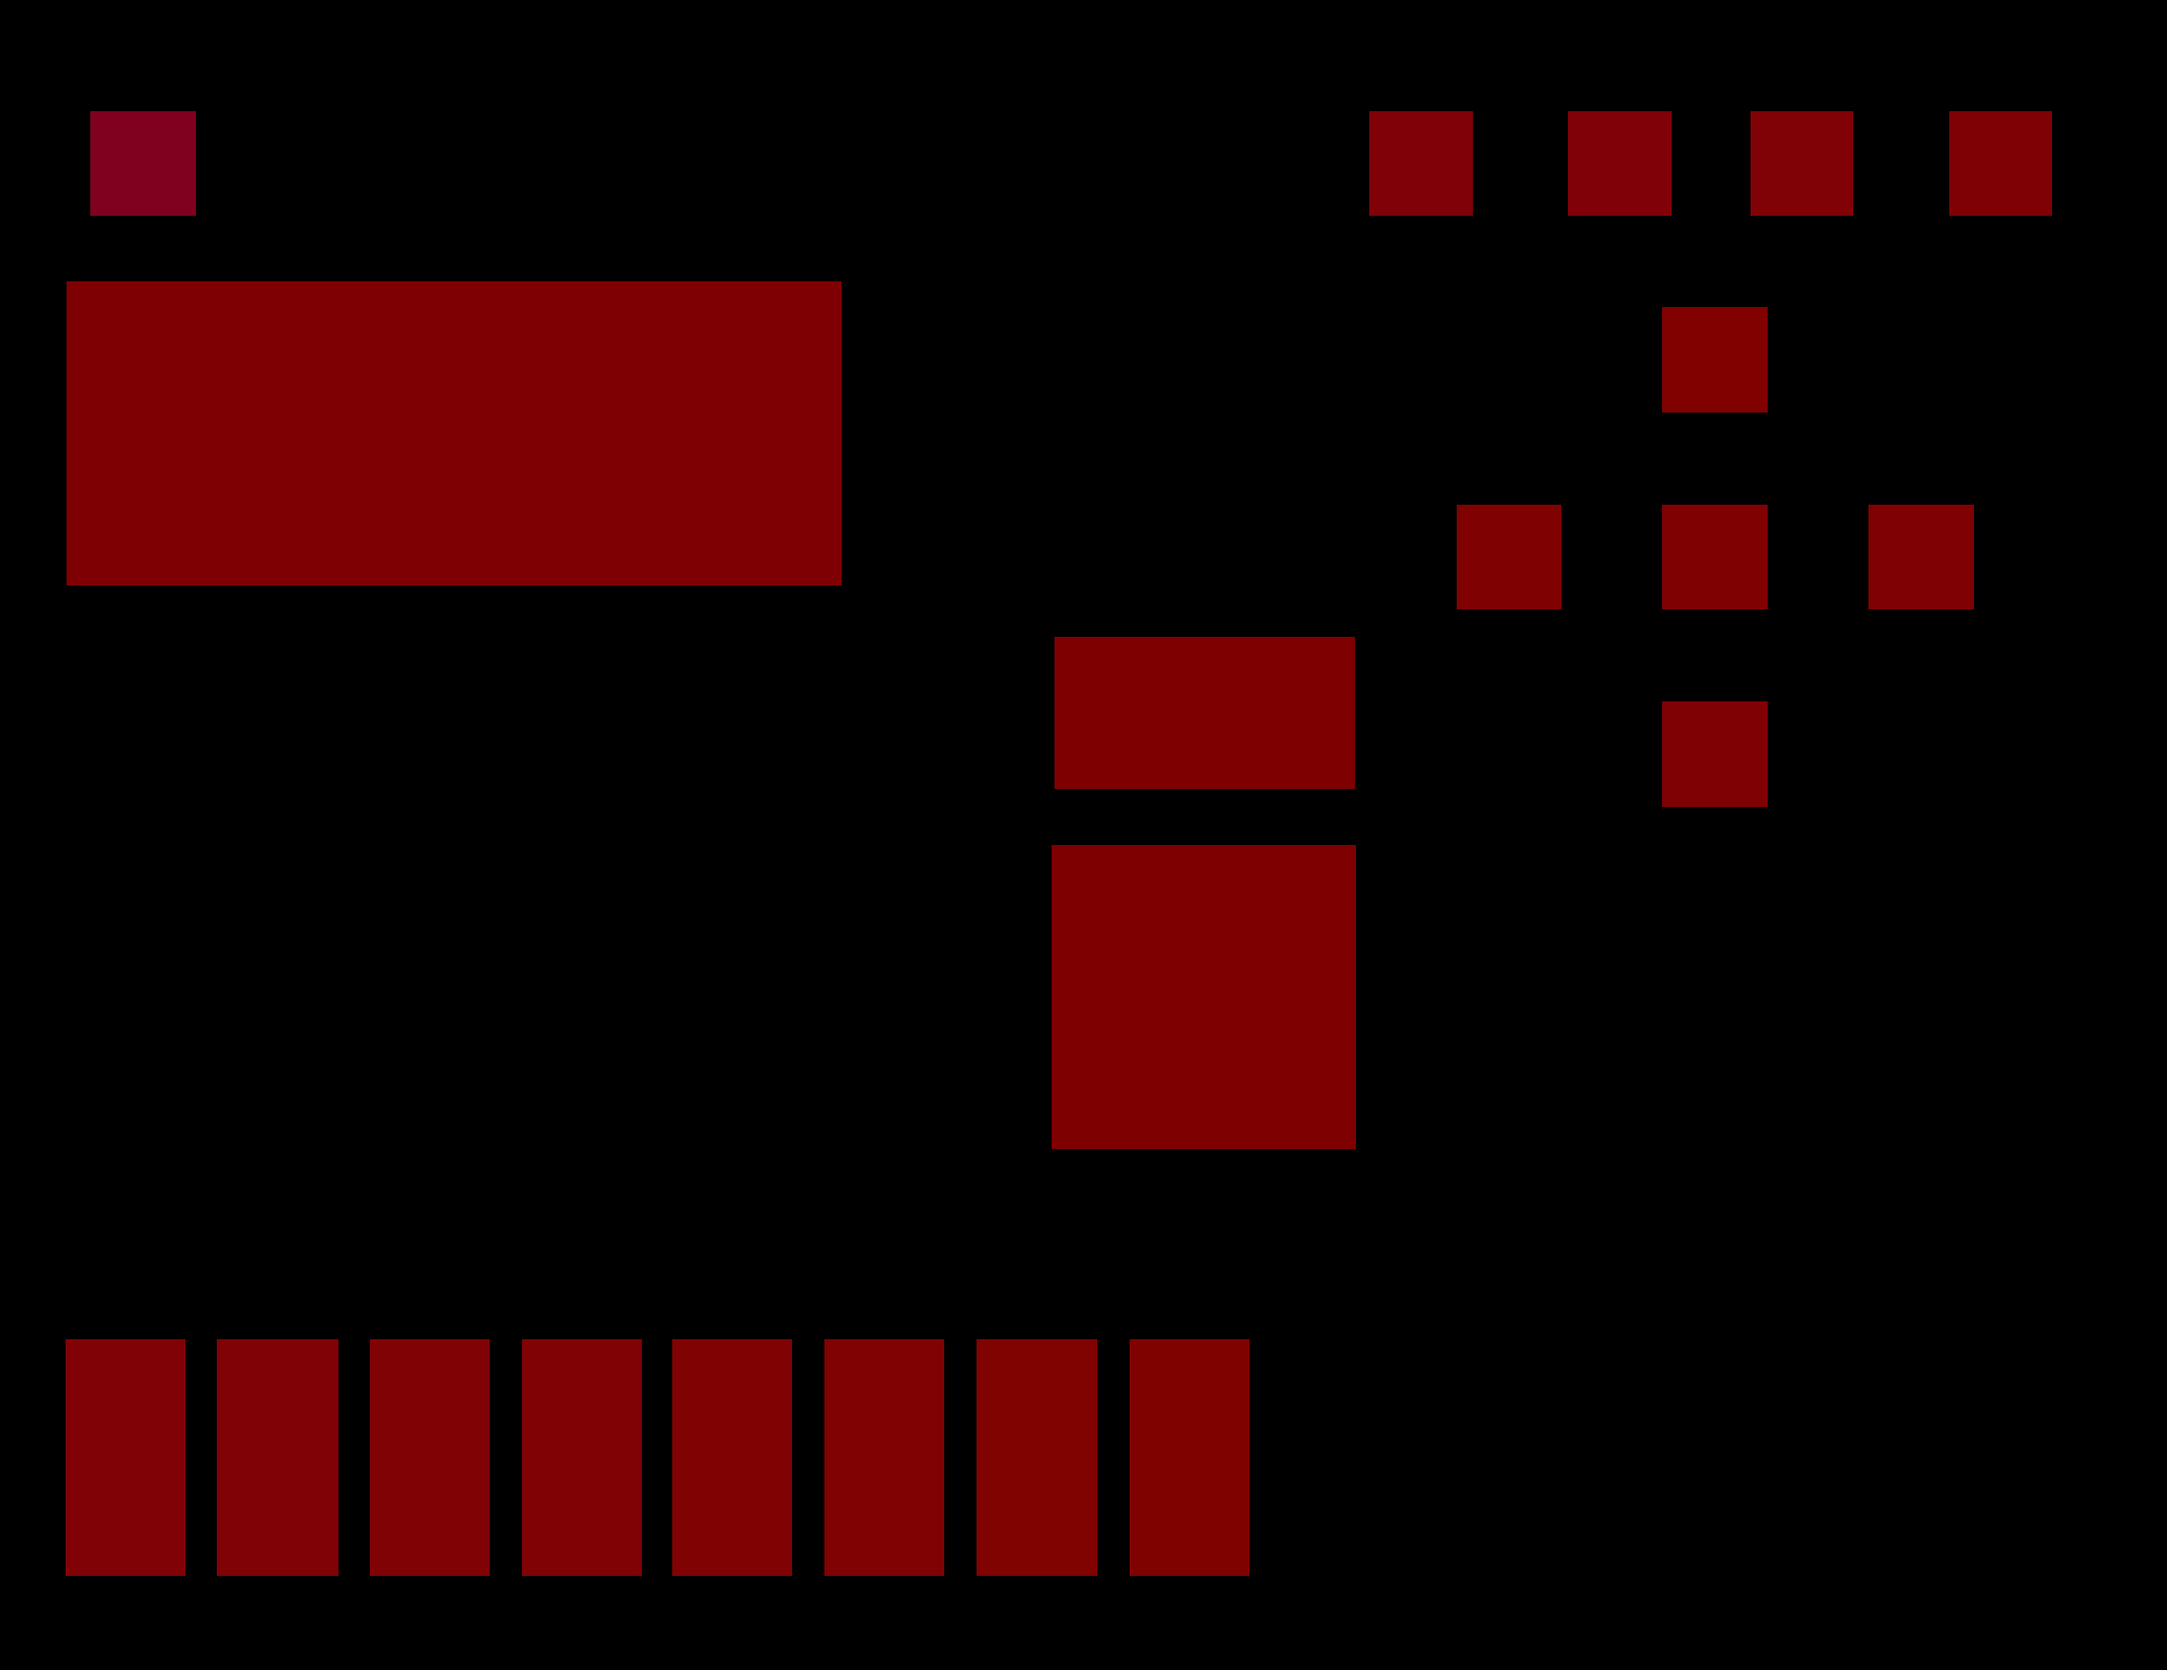
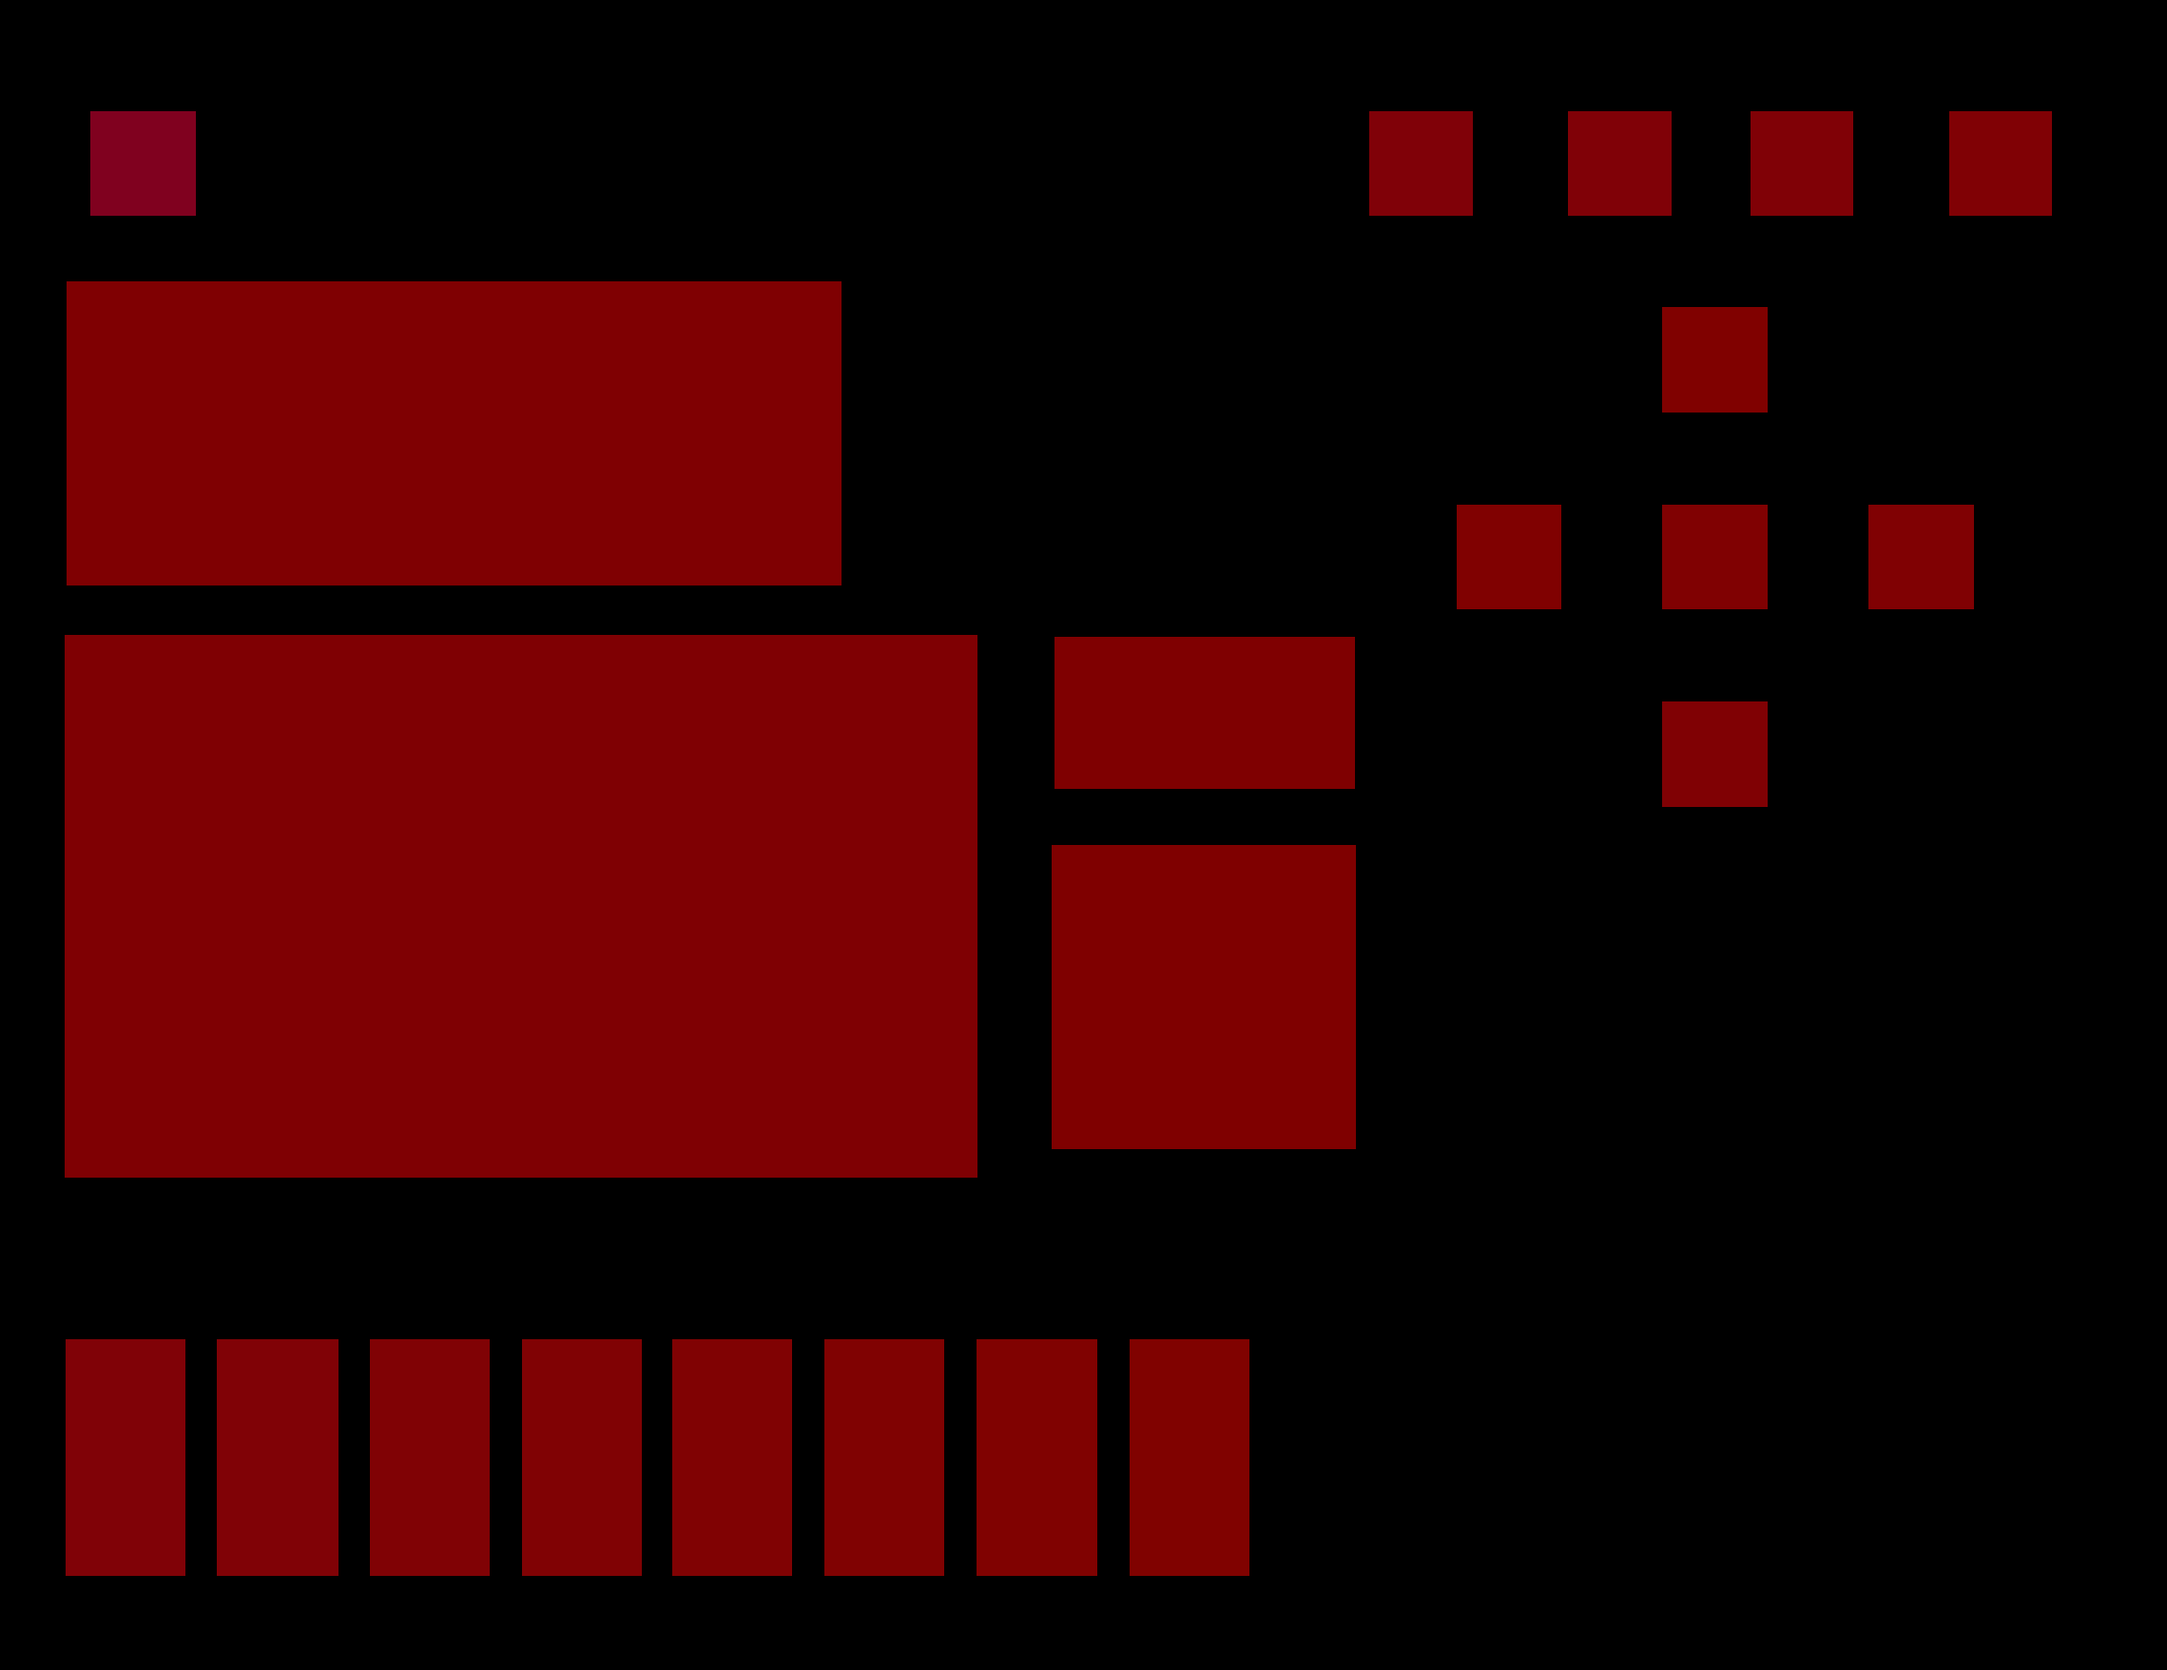
TFT lcd 디스플레이 datasheet 링크 추가

Changed region(s): [[0.0312, 0.3688, 0.4673, 0.7069]]

diff --git a/Meitner/Profiles/FPGA_StarterKit/Document/RegmapButton.cpp b/Meitner/Profiles/FPGA_StarterKit/Document/RegmapButton.cpp
@@ -31,7 +31,7 @@
 // OF SUCH DAMAGE.
 //
 // Title : Starter Kit document
-// Rev.  : 8/4/2026 Tue (clonextop@gmail.com)
+// Rev.  : 9/20/2026 Sun (clonextop@gmail.com)
 //================================================================================
 #include "RegmapButton.h"
 
@@ -78,6 +78,11 @@ BOOL RegmapButton::OnCommand(LPCTSTR lpszURL)
 			case 2: // Numeric Display
 				g_pSystem->ExecuteFile(
 					_T("explorer"), _T("https://cdn-shop.adafruit.com/datasheets/1001datasheet.pdf"), FALSE, NULL, NULL, NULL);
+				break;
+			case 3: // TFT Display
+				g_pSystem->ExecuteFile(
+					_T("explorer"), _T("https://www.fpgalover.com/attachments/article/27/4.3inch-480x272-Touch-LCD-B-UserManual.pdf"), FALSE,
+					NULL, NULL, NULL);
 				break;
 			}
 		}
